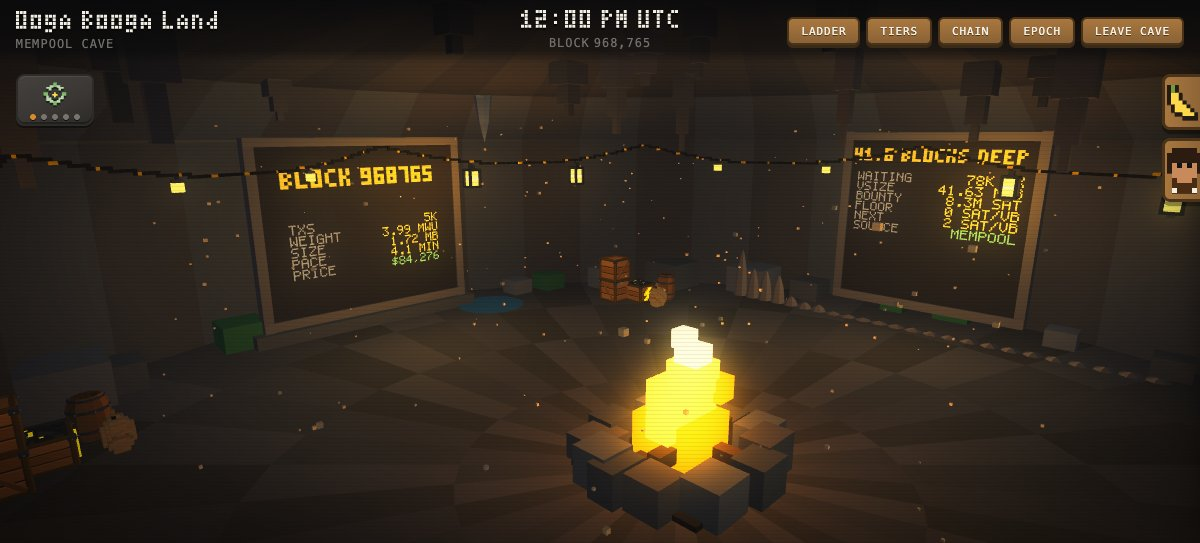
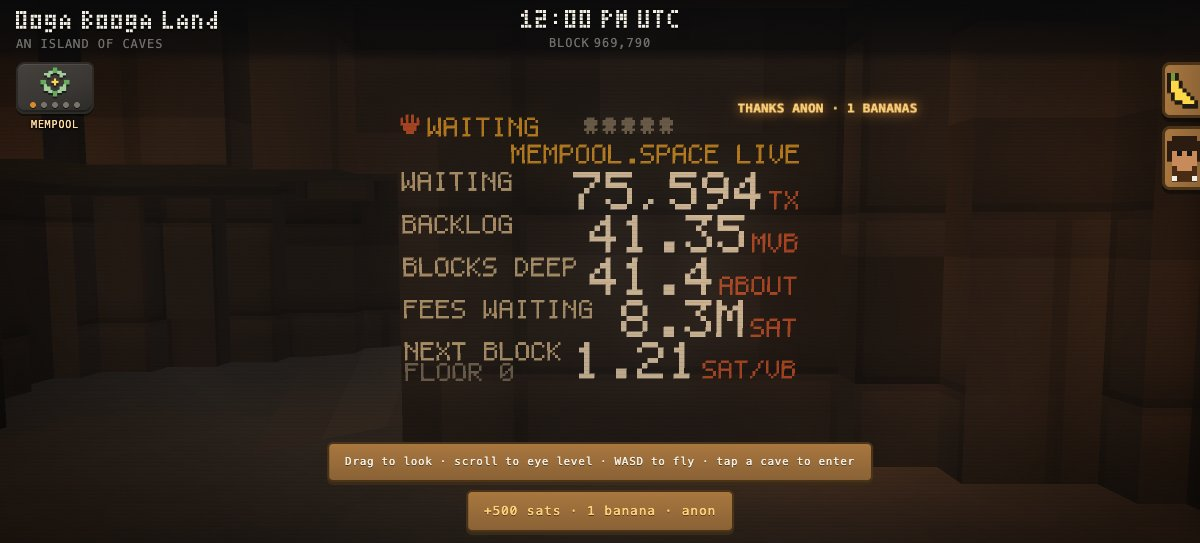
Mempool rainforest: the route's preview card retaken in the chamber, and the latest run in the notes (#140)

diff --git a/docs/mempool-rainforest.md b/docs/mempool-rainforest.md
@@ -1,6 +1,6 @@
 # Issue #140: Mempool rainforest, working notes and handoff
 
-**Status: feature-complete draft on branch `mempool-rainforest`.** The build is clean, the unit tier passes (125/125) and the `hub` scene passes 267 of 268 checks; the one that does not is a time limit, described under Verification. It has been looked at in headless screenshots and driven by probes, never played by a person: the first job of whoever continues is to play it and tune it. Trim this file to a short design and verification note before the PR.
+**Status: feature-complete draft on branch `mempool-rainforest`.** The build is clean, the unit tier passes (125/125) and the `hub` scene's last full run passed 266 of 268 checks: one is a time limit and one passed when its session was run again, both described under Verification. It has been looked at in headless screenshots and driven by probes, never played by a person: the first job of whoever continues is to play it and tune it. Trim this file to a short design and verification note before the PR.
 
 Issue: https://github.com/OogaBoogaX/oogaboogaland/issues/140 (read it in full; it is the spec). Its five images are a world screenshot, two dimensioned plans (the plans govern layout) and two approximate concepts.
 
@@ -55,10 +55,12 @@ Issue: https://github.com/OogaBoogaX/oogaboogaland/issues/140 (read it in full; 
   - Nine sleepers are in beds at entry. A working gorilla put to sleep leaves its cave and reaches its bed in 42 s; one on a roof climbs down and arrives in 46 s; a sleeper woken walks home in 20 s; a sleeper possessed keeps its bed and, released, goes back to it.
   - A tap on a painting opens its board.
   - From the chamber, an Ooga floating in the lake at 45 MvB shows through the skin and the water, with the clouds and the canopy behind it; from above, the bowl and the paintings below show through the lake.
-- `LANES=3 npm test -- hub`, last full run: 267/268 (the same result two runs running). The failure is **`birds-eye lower floors`**: "Runtime.evaluate got no reply in 90 s", no assertion. On unchanged `rock` on the same machine that session passes in 88 s against the 90 s limit; a birds-eye frame in the HQ basement profiles about 3.5% slower with the island (more nodes to walk), which is enough. It has printed STOP, so it is handed to the maintainer with `untracked/test-ledger.json`; it wants a run on a machine with headroom, not a change. `birds-eye combat camera` sits near its 120 s session limit for the same reason and passed on retry.
+- `LANES=3 npm test -- hub`, last full run (on the latest commit, after a restart of the machine): **266/268**.
+  - **`birds-eye lower floors`** fails every run here: "Runtime.evaluate got no reply in 90 s", no assertion. On unchanged `rock` on the same machine that session passes in 88 s against the 90 s limit; a birds-eye frame in the HQ basement profiles about 3.5% slower with the island (more nodes to walk), which is enough. It has printed STOP, so it is handed to the maintainer with `untracked/test-ledger.json`; it wants a run on a machine with headroom, not a change. `birds-eye combat camera` sits near its 120 s session limit for the same reason and passes on retry.
+  - **`work movement cave trips`** failed once in that run: of five workers on the home island, one (portlandhodl) made a single avoidance hop (`jumps: 1`, a 0.28 m step) where the check allows none. Nothing changed since the runs it passed in touches walking (the changes were colours, a depth bias and a hidden backing mesh), and its session run again alone (`ONLY="work movement cave trips" LANES=3 npm test -- hub`) passed. The crew draws some choices from the crypto dice, so trips differ run to run; treat it as intermittent and watch it. It passed in the seven full runs before.
+  - The run before that one was lost to the machine: Chrome hung in every session (driver timeouts, no assertion), as it then did on `rock`'s own page, until the machine was restarted. Those timeouts cleared in the run above.
 - Fixed during the session after the suite caught them: `rainforest approach` (gorillas commuting over the bridge at each donation), `lab work` (its sleeper now frees its bench at once; the check counts coworkers and no longer the gorilla walking out to bed).
 - Canvas 2D (`?canvas2d=1`), in screenshots: the court and the flooded lake, the chamber with the lake seen through the membrane, and all of a painting's rows in front of its wall (the paintings carry `depthBias` and their walls are cut small for that renderer's depth sort).
-- **Run the hub once more before the PR.** The painted walls' metre squares, the paint's depth bias and the chamber backing came after the last good run. They have the unit tier, Node probes of the mesh and screenshots on both renderers behind them, but the hub run started after them was lost: the machine stalled and Chrome hung in every session (eleven driver timeouts, no assertion), and from then on headless Chrome hung on `rock`'s own built page too, with the clock shifted or not. `untracked/test-ledger.json` carries those timeouts; they are the machine's, not checks to fix.
 - Not done: a person playing it, the perf lane, a phone, two signed-in pages together.
 
 ## Known limits and things to play-test
@@ -73,7 +75,7 @@ Issue: https://github.com/OogaBoogaX/oogaboogaland/issues/140 (read it in full; 
 8. The swim pose is minimal: a floating Ooga treads water with its arms out (`floatPose` in `scene-hub.js`, local, crew and remote bodies alike). Gorillas keep their walking pose.
 9. Outlines and the rock cover cap (`rock-guides`, `camera-cover`) still know only the home island. Underground on this island the close camera collides with the rock and birds-eye and orbit views cut the roof away; there is no x-ray outline.
 10. The epoch painting says its age is unknown, because the snapshot has no stamp for it.
-11. The `mempool` preview card (`npm run cards`) has not been retaken.
+11. The `mempool` preview card was retaken (`npm run cards`, keeping only `cards/mempool.jpg`): the chamber's WAITING painting with that moment's live readings. Its route keeps the feeds on, so the simulator's donation toast happened to be in frame; retake it or replace it with hand-made art if that matters.
 
 ## Previews (under `?debug=1`)
 
